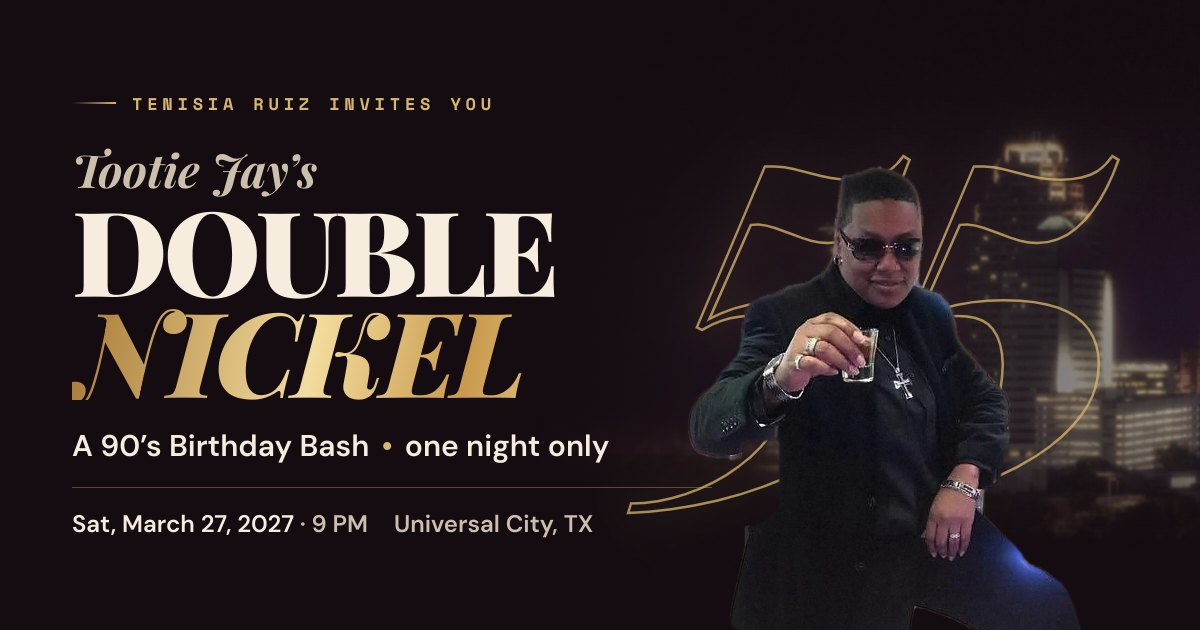
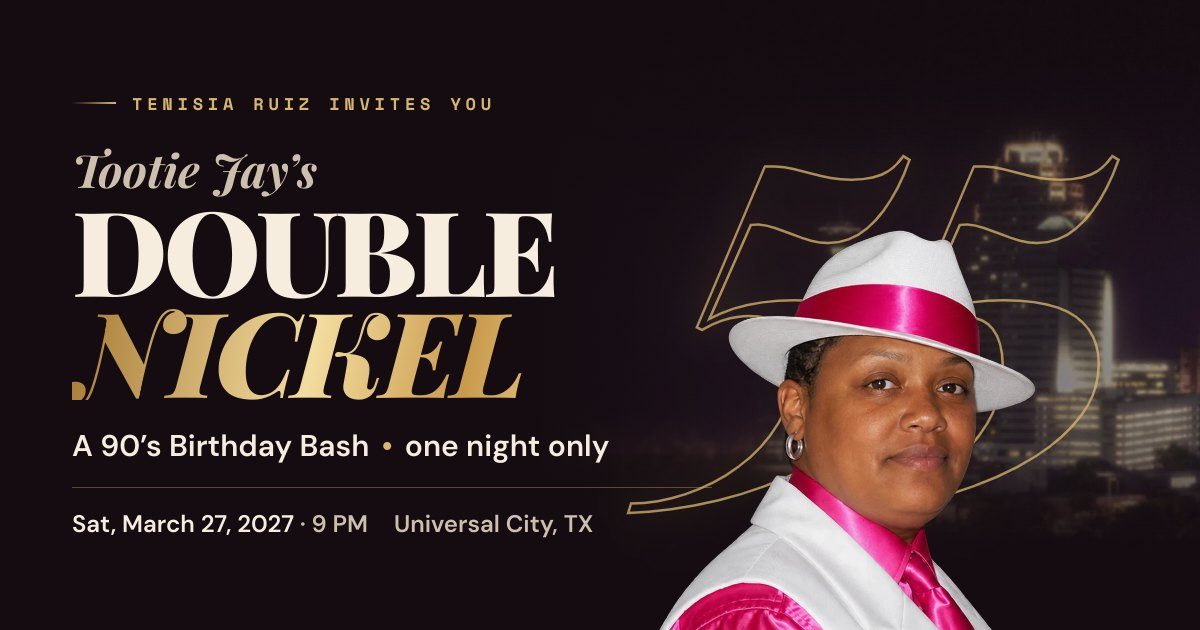
Hero: new white-fedora portrait (glass cropped out), single hero file, phone framing, refreshed share card
Claude-Session: https://claude.ai/code/session_01FbpNjcN9ieyNpaWgRVVqPt

Changed region(s): [[0.5242, 0.2714, 0.8942, 1.0]]

diff --git a/public/index.html b/public/index.html
@@ -12,11 +12,11 @@
 <meta property="og:title" content="Tootie Jay’s Double Nickel · 90’s Birthday Bash">
 <meta property="og:description" content="You’re invited to Tootie Jay’s Double Nickel 90’s Birthday Bash. Saturday, March 27, 2027, 9 PM to 1 AM at Kitty Hawk Event Center, Universal City, TX. Kindly RSVP by March 18.">
 <meta property="og:url" content="https://tootie-jay-double-nickel.netlify.app/">
-<meta property="og:image" content="https://tootie-jay-double-nickel.netlify.app/og-card.jpg">
+<meta property="og:image" content="https://tootie-jay-double-nickel.netlify.app/og-card.jpg?v=2">
 <meta property="og:image:width" content="1200">
 <meta property="og:image:height" content="630">
 <meta property="og:image:alt" content="Tootie Jay’s Double Nickel, a 90’s Birthday Bash. Saturday, March 27, 2027, 9 PM, Universal City, TX">
-<meta name="twitter:image" content="https://tootie-jay-double-nickel.netlify.app/og-card.jpg">
+<meta name="twitter:image" content="https://tootie-jay-double-nickel.netlify.app/og-card.jpg?v=2">
 <meta name="twitter:card" content="summary_large_image">
 <link rel="icon" href="/favicon.svg" type="image/svg+xml">
 <link rel="apple-touch-icon" href="/apple-touch-icon.png">
@@ -549,7 +549,7 @@ select.input { appearance:none; padding-right:2.5rem; background-image:url("data
 @media (max-width:860px) {
   .noir { min-height:0; display:block; }
   .nr-photo { position:relative; top:auto; right:auto; bottom:auto; width:100%; height:min(118vw,36rem); margin-bottom:max(-34vw,-12rem); }
-  .nr-photo img { object-position:50% 12%; transform:scale(1.22); transform-origin:58% 26%; }
+  .nr-photo img { object-position:50% 12%; transform:scale(1.42); transform-origin:57% 44%; }
   .nr-photo.is-custom img { transform:none; }
   .nr-55 { top:2%; font-size:min(64vw,20rem); }
   .nr-veil { background:linear-gradient(0deg, var(--noir) 0%, rgba(20,12,17,0) 40%); }
@@ -1079,9 +1079,9 @@ body[data-route="gallery"] .pager { max-width:none; padding-inline:max(var(--gut
   <section id="hero" class="hero noir" aria-labelledby="hero-title">
     <img class="nr-city" src="photos/hero-city.webp" width="2400" height="1200" alt="" aria-hidden="true" decoding="async">
     <div class="nr-photo">
-      <img class="nr-base" src="photos/hero-tootie.webp" width="1440" height="1600" fetchpriority="high" alt="Tootie Jay in a black suit and sunglasses, raising a toast">
+      <img class="nr-base" src="photos/hero-tootie.webp" width="1440" height="1600" fetchpriority="high" alt="Tootie Jay in a white fedora with a pink band, white vest and hot pink satin shirt">
       <span class="nr-55" aria-hidden="true">55</span>
-      <img class="nr-cut" src="photos/hero-tootie-cut.webp" width="1440" height="1600" alt="" aria-hidden="true">
+      <img class="nr-cut" src="photos/hero-tootie.webp" width="1440" height="1600" alt="" aria-hidden="true">
     </div>
     <div class="nr-veil" aria-hidden="true"></div>
     <div class="nr-dust" aria-hidden="true"></div>

diff --git a/public/rsvp/index.html b/public/rsvp/index.html
@@ -9,12 +9,12 @@
   <meta name="theme-color" content="#140c11">
   <meta property="og:title" content="RSVP · Tootie Jay’s Double Nickel">
   <meta property="og:description" content="Kindly reply by Thursday, March 18, 2027.">
-  <meta property="og:image" content="https://tootie-jay-double-nickel.netlify.app/og-card.jpg">
+  <meta property="og:image" content="https://tootie-jay-double-nickel.netlify.app/og-card.jpg?v=2">
 <meta property="og:image:width" content="1200">
 <meta property="og:image:height" content="630">
 <meta property="og:image:alt" content="Tootie Jay’s Double Nickel, a 90’s Birthday Bash. Saturday, March 27, 2027, 9 PM, Universal City, TX">
 <meta name="twitter:card" content="summary_large_image">
-<meta name="twitter:image" content="https://tootie-jay-double-nickel.netlify.app/og-card.jpg">
+<meta name="twitter:image" content="https://tootie-jay-double-nickel.netlify.app/og-card.jpg?v=2">
 <link rel="icon" href="/favicon.svg" type="image/svg+xml">
   <link rel="apple-touch-icon" href="/apple-touch-icon.png">
   <style>
